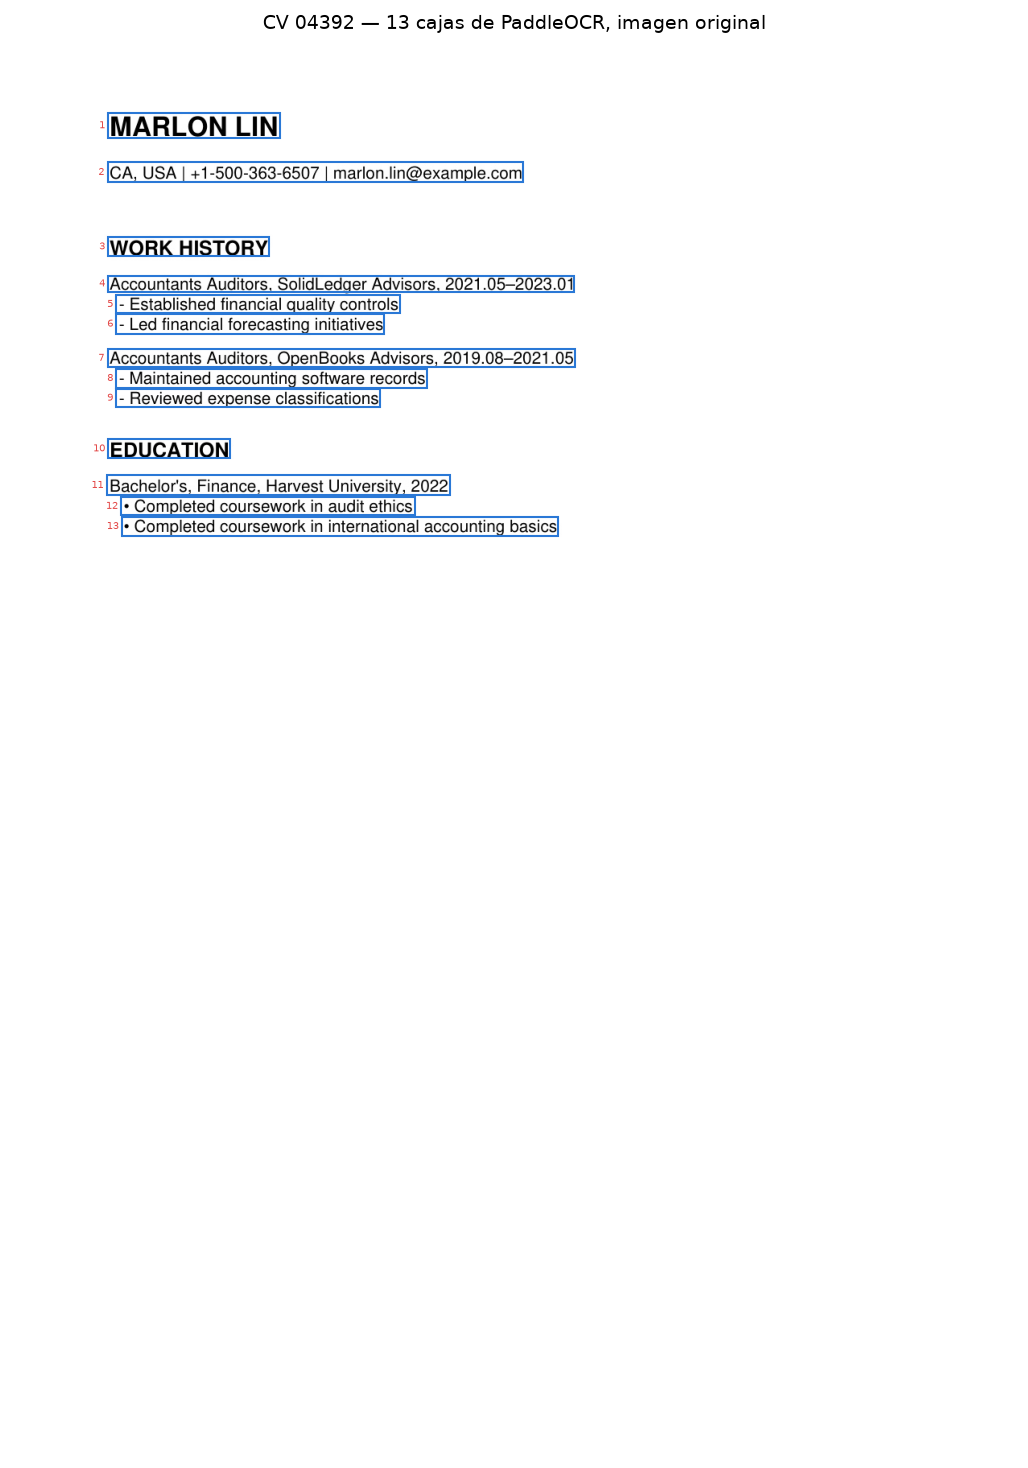
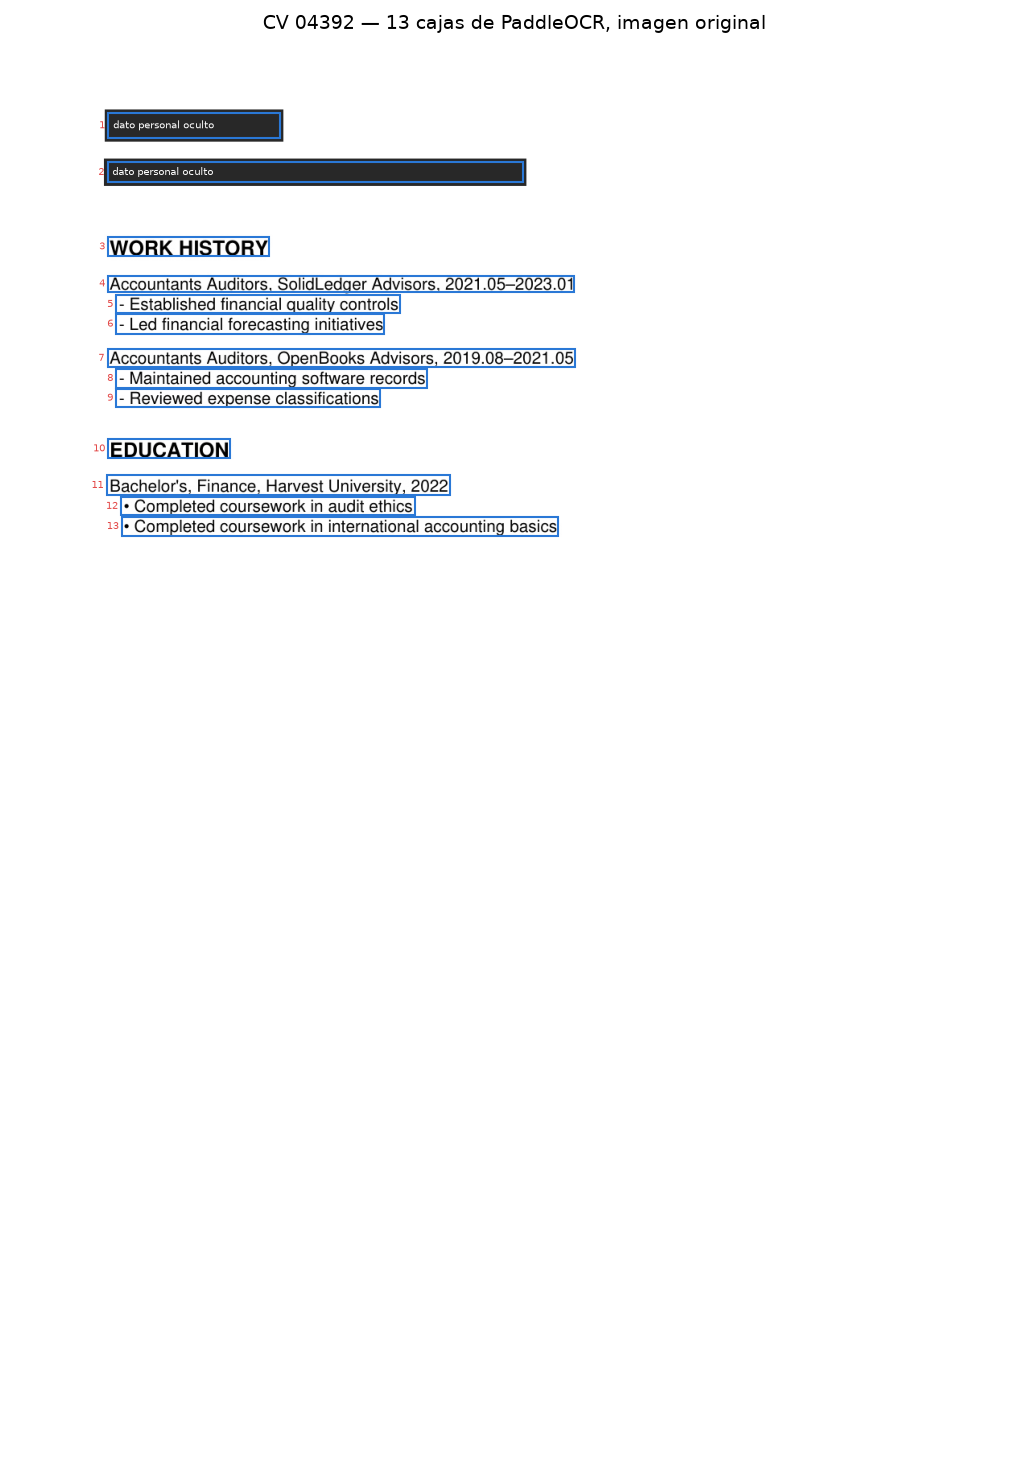
Tarea 3: tapa nombre, teléfono, email y dirección en las figuras de cajas OCR
draw_ocr_boxes oculta (sobre los píxeles de la imagen) las cajas de la cabecera y las que
contienen email, teléfono, URL o dirección, con las mismas reglas que preprocessing.remove_pii.
Se regenera example_cv_ocr_boxes.png; el estimador de la pestaña 4 también tapa esos datos.

Changed region(s): [[0.0934, 0.0613, 0.5292, 0.1226]]

diff --git a/Tarea Septiembre/Tarea 3/src/visualization.py b/Tarea Septiembre/Tarea 3/src/visualization.py
@@ -341,9 +341,39 @@ def find_example_cv() -> str | None:
     return None
 
 
-def draw_ocr_boxes(lines: list[dict], image=None, image_size=None, title: str = "") -> plt.Figure:
+def pii_line_indices(lines: list[dict]) -> set[int]:
+    """Índices de las cajas con datos personales, con las mismas reglas que ``preprocessing.remove_pii``: todo lo
+    anterior a la primera sección si aparece en las primeras 5 filas (nombre, ciudad, teléfono, email) y cualquier
+    caja con email, teléfono, URL o dirección."""
+    from src import preprocessing as P
+
+    rows = sorted({ln["row"] for ln in lines})
+    first_section = next((r for r in rows[:5]
+                          if P.SECTION_RE.match(" ".join(ln["text"] for ln in lines if ln["row"] == r))), None)
+    out = {i for i, ln in enumerate(lines) if first_section is not None and ln["row"] < first_section}
+    pii_res = (P.EMAIL_RE, P.PHONE_RE, P.URL_RE, P.ADDRESS_RE, P.CITY_STATE_ZIP_RE)
+    out |= {i for i, ln in enumerate(lines) if any(rx.search(ln["text"]) for rx in pii_res)}
+    return out
+
+
+def redact_image(image, boxes, pad: int = 4):
+    """Copia de la imagen con un rectángulo sólido sobre cada caja (los píxeles originales quedan tapados)."""
+    from PIL import ImageDraw
+
+    out = image.copy()
+    draw = ImageDraw.Draw(out)
+    for x1, y1, x2, y2 in boxes:
+        draw.rectangle((x1 - pad, y1 - pad, x2 + pad, y2 + pad), fill=(40, 40, 40))
+    return out
+
+
+def draw_ocr_boxes(lines: list[dict], image=None, image_size=None, title: str = "", redact: bool = True) -> plt.Figure:
     """Dibuja las cajas de PaddleOCR (``lines`` con text/confidence/box/row) sobre la imagen o, sin imagen, sobre un
-    lienzo en blanco con el texto reconocido dentro de cada caja. El número es el orden de lectura."""
+    lienzo en blanco con el texto reconocido dentro de cada caja. El número es el orden de lectura.
+    Con ``redact`` las cajas con datos personales se tapan con un rectángulo y su texto no se muestra."""
+    hidden = pii_line_indices(lines) if redact else set()
+    if image is not None and hidden:
+        image = redact_image(image, [lines[i]["box"] for i in hidden])
     if image is not None:
         w, h = image.size
     elif image_size:
@@ -360,7 +390,11 @@ def draw_ocr_boxes(lines: list[dict], image=None, image_size=None, title: str = 
         x1, y1, x2, y2 = ln["box"]
         ax.add_patch(plt.Rectangle((x1, y1), x2 - x1, y2 - y1, fill=False, edgecolor=COLORS[BERT_KEY], lw=1))
         ax.text(x1 - 4, y1 + (y2 - y1) / 2, str(i + 1), ha="right", va="center", fontsize=5, color="#e34948")
-        if image is None:
+        if i in hidden:
+            if image is None:  # sin imagen: rectángulo en lugar del texto
+                ax.add_patch(plt.Rectangle((x1, y1), x2 - x1, y2 - y1, facecolor="#282828", edgecolor="none"))
+            ax.text(x1 + 6, y1 + (y2 - y1) / 2, "dato personal oculto", va="center", fontsize=5, color="white")
+        elif image is None:
             ax.text(x1 + 2, y1 + (y2 - y1) / 2, ln["text"], va="center", fontsize=4.5, color=INK, clip_on=True)
     ax.set_xlim(0, w)
     ax.set_ylim(h, 0)

diff --git a/Tarea Septiembre/Tarea 3/app.py b/Tarea Septiembre/Tarea 3/app.py
@@ -282,7 +282,7 @@ with tab2:
 
     st.subheader("CV de ejemplo con las cajas de PaddleOCR")
     show_fig(V.fig_example_cv(),
-             "Cada caja es una línea detectada; el número es el orden de lectura (arriba→abajo, izquierda→derecha).",
+             "Cada caja es una línea detectada; el número es el orden de lectura (arriba→abajo, izquierda→derecha). La cabecera con datos personales se tapa.",
              missing="No hay imágenes (`data/raw/images/`) ni JSON de OCR (`data/ocr/`) en este equipo: se comparten "
                      "fuera de git. Sube un CV en la pestaña 4 para ver sus cajas.")
 
@@ -471,7 +471,7 @@ with tab4:
                     show_fig(V.draw_ocr_boxes(res["lines"], Image.open(png).convert("RGB"),
                                               title=f"{len(res['lines'])} cajas · confianza media "
                                                     f"{res['mean_confidence']:.3f} · {res['ocr_time_seconds']} s"),
-                             "Cajas detectadas por PaddleOCR y su orden de lectura.")
+                             "Cajas detectadas por PaddleOCR y su orden de lectura (datos personales de la cabecera tapados).")
                 with c2:
                     st.markdown("**Texto limpio que reciben los modelos** (sin PII; las fechas se conservan)")
                     if was_masked:
